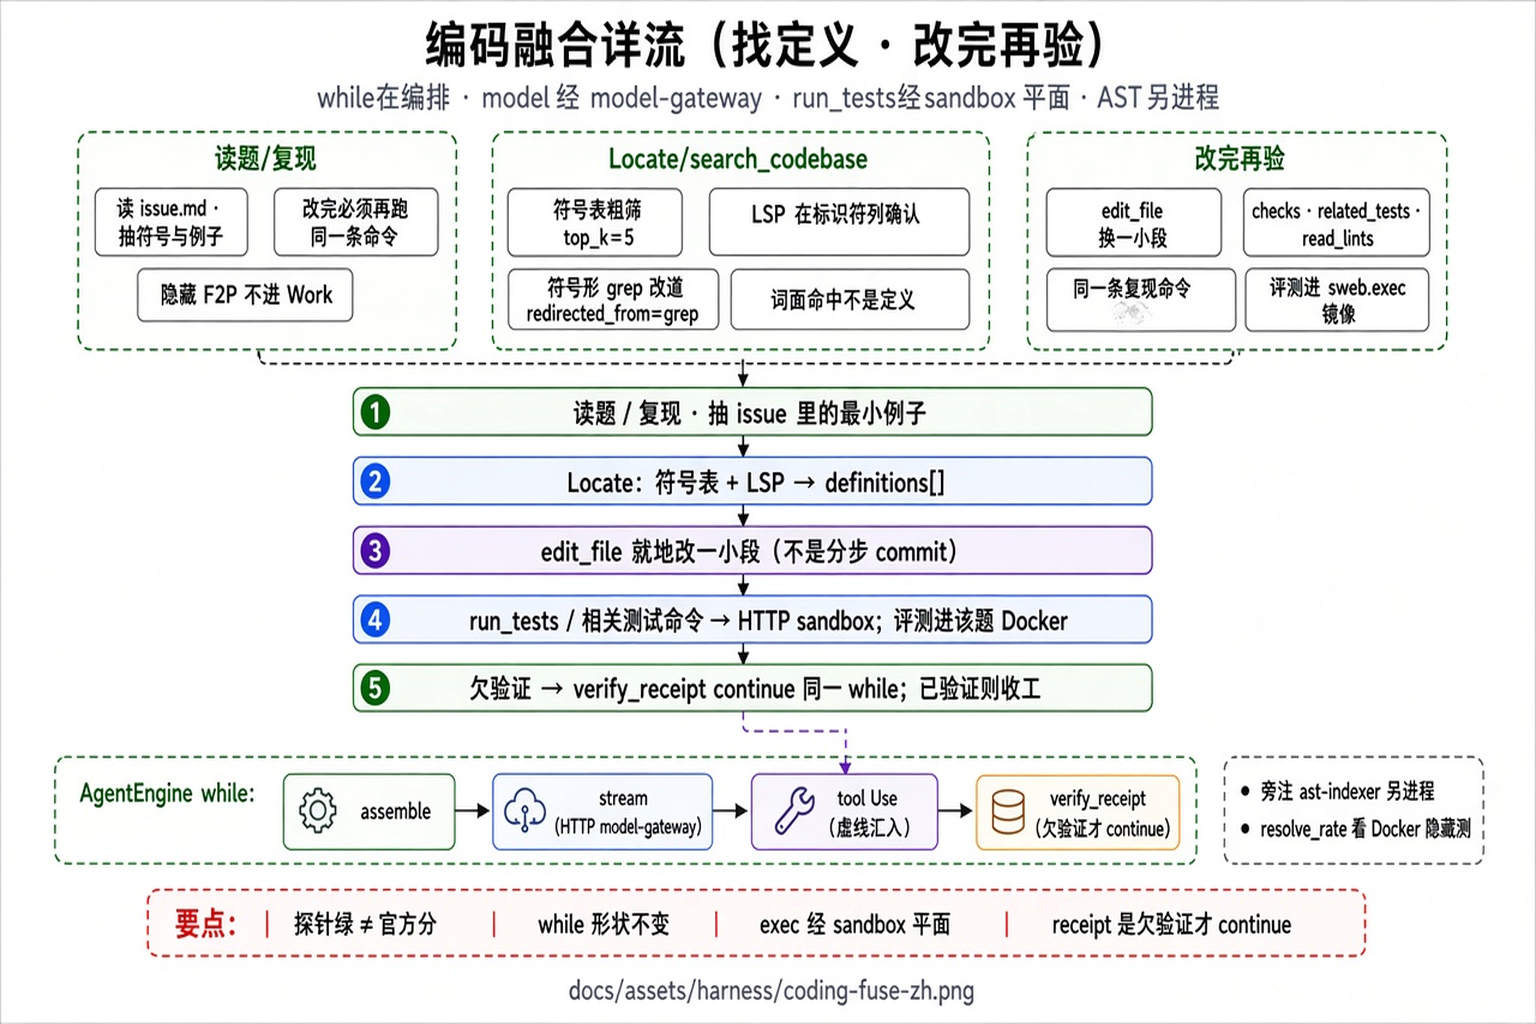
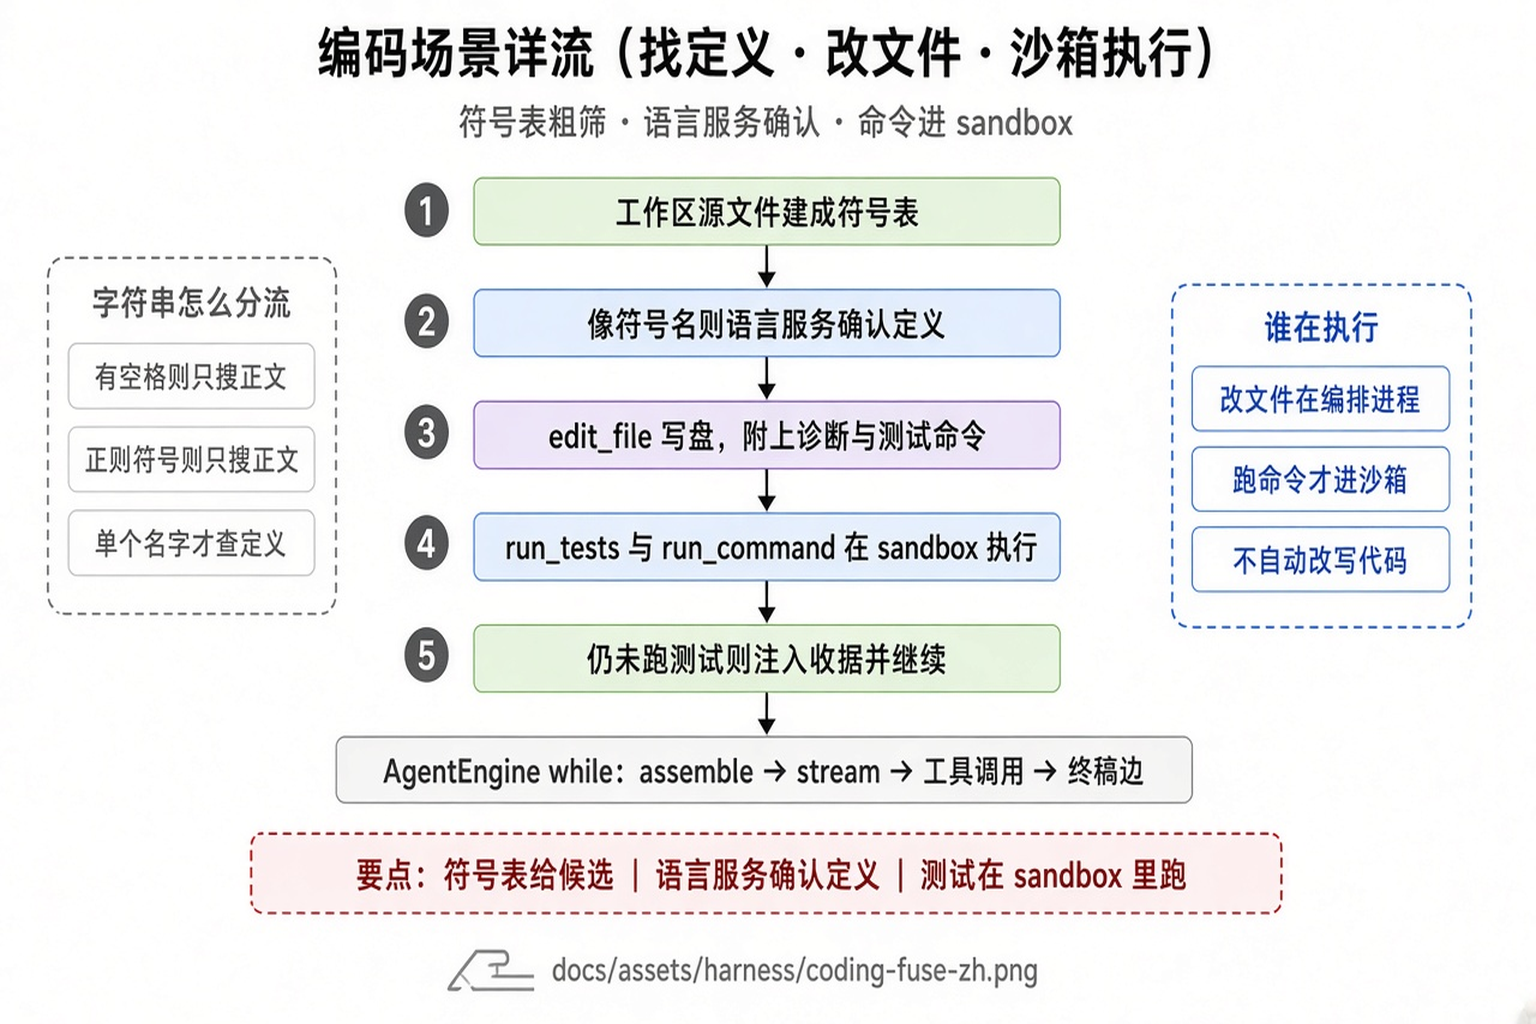
Describe the coding scenario from the workspace index and the sandbox.
Issue extraction is no longer written as the first step of every coding turn.

Changed region(s): [[0.0312, 0.0, 0.9688, 1.0], [0.9688, 0.9688, 1.0, 1.0], [0.75, 0.5938, 0.7812, 0.625]]

diff --git a/docs/tour/pages/coding-fuse.html b/docs/tour/pages/coding-fuse.html
@@ -1,56 +1,82 @@
 <section class="page" data-id="coding-fuse" data-group="Coding" data-title="找定义 · 改完再验">
+        <style>
+          [data-id="coding-fuse"] table { table-layout: fixed; }
+          [data-id="coding-fuse"] th:first-child,
+          [data-id="coding-fuse"] td:first-child { width: 28%; }
+          [data-id="coding-fuse"] th,
+          [data-id="coding-fuse"] td { overflow-wrap: anywhere; }
+        </style>
         <div class="card">
-          <h2>编码 Turn：从读题到交卷</h2>
-          <p class="lede">模型已会调用 <code>search_codebase</code>、<code>edit_file</code>、<code>run_tests</code>。平台不另发明导航工具，而是在返回值中写入模型无法忽视的事实。仍在同一 AgentEngine while（编排容器）；live 模型经 model-gateway，shell/tests 经 sandbox 平面 HTTP。官方是否判通过看 Docker 内隐藏测（<code>resolve_rate</code>），不是看这些探针是否为绿。</p>
+          <h2>编码场景</h2>
+          <p class="lede">编码场景使用 <code>agent</code> Profile，<code>max_steps</code> 为 150。用户消息给出本轮任务，源文件位于该 Work 的工作区。定义与引用由符号表和语言服务提供，测试与 shell 在 sandbox 中执行。</p>
           <ul class="seq-legend">
-            <li><span class="pt">◆ 要点</span> 官方通过与否看 Docker 内的隐藏测试。定义以符号表加 LSP 的确认结果为准。</li>
+            <li><span class="pt">◆ 要点</span> 写盘与执行分开。<code>edit_file</code> 不运行被修改的代码，建议的测试命令留待后续调用执行。</li>
           </ul>
+          <table>
+            <thead><tr><th>部分</th><th>职责</th></tr></thead>
+            <tbody>
+              <tr><td>用户消息</td><td>本轮任务。Controller 将其写入 <code>turn_user_text</code>。定义查找不读取该字段。</td></tr>
+              <tr><td>符号表</td><td>扫描工作区源文件，为函数名、类名建立索引，供定义查找取出候选。</td></tr>
+              <tr><td>语言服务</td><td>在源文件的行、列上确认定义，查询引用，并参与诊断。</td></tr>
+              <tr><td><code>edit_file</code></td><td>在编排进程中修改工作区里的已有文件。不执行这段代码。</td></tr>
+              <tr><td><code>run_tests</code> / <code>run_command</code></td><td>在 sandbox 中执行。sandbox 不可用时拒绝。</td></tr>
+            </tbody>
+          </table>
 
-          <h3>主链（仍是 Engine while，虚线汇入 tool_use）</h3>
-          <pre class="seq">1  读题  extract_issue_repro_hints(problem.md / PROBLEM.md / issue.md)
-     抽出符号名、报错串、代码块、REPL、raises
-     上限：命令 4 · 标记 8 · token 6 · 资产 2 · 信号 6 · fence 400 字
-     禁止先 list_dir(".") 枚举仓库根（写在 scenarios/agent/system.md，由返回值落实）
-     隐藏 F2P / gold patch 不进 Work
-     ◆ 要点  抽取器只能看见 issue 写过的例子。把 F2P 名字塞进 prompt，测的是泄漏。
+          <h3>符号名判定</h3>
+          <p><code>is_symbol_query</code> 只检查这一次传入的字符串。空串与超长在前，空白次之，正则元字符再次，最后才接受标识符。</p>
+          <table>
+            <thead><tr><th>字符串</th><th>后续路径</th></tr></thead>
+            <tbody>
+              <tr><td>空，或长度大于 128</td><td>文本搜索</td></tr>
+              <tr><td>含空白，如 <code>TypeError: login failed</code></td><td>文本搜索。报错原文属于此类。</td></tr>
+              <tr><td>含 <code>\ ^ $ * + ? { } [ ] | ( )</code>，如 <code>foo.*bar</code></td><td>文本搜索。这些字符按正则处理，不用于查定义。</td></tr>
+              <tr><td>整段为标识符或点分路径，如 <code>login</code>、<code>Card</code>、<code>pkg.Class.method</code></td><td>定义查找：符号表取候选，语言服务确认。</td></tr>
+            </tbody>
+          </table>
+          <p>文本搜索将正则字符转义为普通字符后，在文件正文中做子串匹配，位置写入 <code>hits</code>，<code>definitions</code> 为空。<code>locate_incomplete</code> 为假，表示本次未尝试查找定义。定义查找若未得到语言服务确认的位置，<code>definitions</code> 同样为空，<code>locate_incomplete</code> 为真。</p>
 
-2  复现  用 issue 内最小例子；改完必须再跑同一条命令
-     仓库 pytest 全绿只武装 issue_repro_armed
-     覆盖判定：issue_repro_edits_since == 0（最新一次成功 edit/write 之后）
-     失败签名仍在 stdout → 不算清；写再读须同一套 format/kwargs；casefold 主张须再跑折叠变体
+          <h3>符号表</h3>
+          <p>索引记录函数、类所在的文件。冷启动写入 <code>work_ast_index_jobs</code>，由 ast-indexer 另进程消费，不阻塞本轮。文件变更后的刷新去抖为 0.5 秒。一次查询至多返回 5 个同名候选。索引中尚无该名字时，按名称末段匹配文件名，例如 <code>Card</code> 对应 <code>Card.py</code>，上限 8 个文件、200 个目录，不等待整库索引完成。</p>
+          <p>编码 Profile 的 <code>structural_prewarm</code> 为真时，Controller 在后台预热语言服务，StartTurn 不等待预热结束。对符号名调用 <code>grep</code> 时，处理函数改走定义查找，工具名仍为 <code>grep</code>。</p>
 
-3  找定义  search_codebase（Locate）
-     符号表粗筛 top_k=5 → LSP 在标识符列确认 → 只有确认过的进 definitions[]
-     grep 符号形 pattern → handler 整条改道（redirected_from=grep），工具名不变
-     词面 hits 不得冒充定义；模块名/形参查空 → locate_incomplete，不是索引故障
-     产品对话不等 AST ready；索引默认入队 work_ast_index_jobs（inline 仅测试）
-     ◆ 要点  符号表无向量。写作打开 Locate，会把散文专名当代码符号。
+          <h3>语言服务</h3>
+          <p>符号表给出候选后，语言服务按该文件的路径、行、列确认是否为定义。确认结果写入 <code>definitions</code>，并停在第一个确认成功的候选。导航超时默认 15 秒。语言服务不可用、超时、缺少提供者或语言不受支持时，本次定位失败；符号表候选可留在 <code>candidates</code>，不进入 <code>definitions</code>。</p>
+          <p>索引没有结果或调用失败时，改为直接调用 <code>goto_definition</code>。没有结果包括：当前没有 Work、索引未启用、索引状态为 <code>ERROR</code>、按文件名也未命中。直接调用仍无位置时，退回文本搜索，<code>locate_incomplete</code> 为真。<code>self</code>、<code>cls</code>、<code>args</code>、<code>kwargs</code>、<code>msg</code>、<code>exc</code>、<code>err</code> 以及全小写点分模块路径，原因记为 <code>non_definition_query</code>，其余记为 <code>no_workspace_symbol_match</code>。</p>
 
-4  就地改  edit_file 替换一小段（非唯一命中回显最多 5 个 span）
-     32k 截断时附大纲
-     模型拿完整 result；Ops 侧 tool.completed 只落瘦 meta
-       impact / checks（单文件增量，最多 20 条，超时 30s）
-       related_tests 最多 5 条 + python -m pytest {path} -x -q
-     平台不代跑相关测试（启发式 250ms / import 反向 400ms）
-     ◆ 要点  代跑会把探针绿和官方 resolve_rate 混在一起。
+          <h3>写盘</h3>
+          <p><code>old_text</code> 在目标文件中须恰好出现一次，<code>new_text</code> 只替换该处。出现 0 次时不写盘，并返回至多 5 条邻近候选。出现多次时不写盘，并返回出现位置，至多 20 条。新文件使用 <code>write_file</code>。写盘前比较新旧文本的语法，新引入的语法错误拒绝写入。快照写成时，此次写入按可回退直接放行；快照未写成时等待批准。<code>edit_file</code> 不读取定位结果，<code>definitions</code> 为空不构成拒绝写盘的条件。</p>
+          <p>写盘成功后，同一次结果附带下列三项。平台不据此再改一稿，也不执行其中的测试命令。</p>
+          <table>
+            <thead><tr><th>附带内容</th><th>来源与限度</th></tr></thead>
+            <tbody>
+              <tr><td>引用</td><td>从 <code>old_text</code> 与 <code>new_text</code> 中抽出一个符号，由语言服务列出引用位置。路径不是代码，或片段中没有符号，则跳过。</td></tr>
+              <tr><td>新增诊断</td><td>比较写盘前后的诊断，只保留新增项。默认至多 20 条，超时 30 秒。</td></tr>
+              <tr><td>测试命令</td><td>至多 5 条，形式为 <code>python -m pytest {path} -x -q</code>。按文件名查找的预算为 250 毫秒，按 import 反向查找至多 250 个文件、400 毫秒。</td></tr>
+            </tbody>
+          </table>
+          <p>跨文件诊断由模型另行调用 <code>read_lints</code>。该工具合并 ruff 与语言服务的诊断后返回。</p>
 
-5  改完再验  checks · related_tests 命令 · 邻文件 read_lints · 同一条复现
-     失败摘要从<strong>未截断全文</strong>抽 first_failures（入 state 再截 400 字）
-     评测路径剥 | tail，送进该题 sweb.eval；宿主树上的绿不算
-     pip/uv install 在 SWE 镜像内拒绝
+          <h3>sandbox 中的执行</h3>
+          <p>读文件与改文件由编排进程直接访问工作区。sandbox 可用，指已配置远程 sandbox 平面，或本进程的 bwrap 可用。编排进程未配置 <code>SANDBOX_PLANE_URL</code>，或隔离探针失败时，<code>run_tests</code> 与 <code>run_command</code> 被拒绝，原因为 <code>sandbox unavailable</code>。</p>
+          <table>
+            <thead><tr><th>调用</th><th>执行条件</th></tr></thead>
+            <tbody>
+              <tr><td><code>run_tests</code></td><td>仅接受 <code>pytest</code>、<code>python -m pytest</code>、<code>npm</code> / <code>pnpm</code> / <code>yarn test</code>、<code>npx vitest</code>、<code>npx jest</code>。其它字符串拒绝，不进入 shell。sandbox 可用时允许执行，可写范围为当前工作区根。</td></tr>
+              <tr><td><code>run_command</code></td><td>用于构建、安装及其它命令。sandbox 可用且命令在允许列表中时直接执行；不在允许列表中、且不属于评测命令集时，先经批准。单文件的 <code>cat</code>、<code>head</code>、<code>tail</code>、<code>sed -n</code>，且命令行不含管道时，改为 <code>read_file</code>，不进入 shell。</td></tr>
+            </tbody>
+          </table>
 
-6  终局边  欠验证 → verify_receipt continue 同一 while
-     剩余步数 &lt; 10 则省略；每类每 Turn 至多一次
-     不是新图节点；菜单不可见
-     ◆ 要点  探针全绿仍可能 harness unresolved（14365：issue 无小写 NO，隐藏 roundtrip 仍红）。</pre>
-          <p>超时与文件帽是配置，不是能力开关。Capability 在 Profile.tool_names。structural_prewarm 不挡 TTFB。</p>
-          <p class="figure-lead">下图上半三条虚线分组是读题、Locate（符号表加 LSP）、改完再验；下半仍是 Engine while，虚线汇入 <code>tool_use</code>。欠验证才注入 <code>verify_receipt</code> 并 continue。主链没有「制定计划」或「分步 commit」。</p>
-          <div class="src"><code>structural/workspace_index/locate.py</code> · <code>structural/related_tests.py</code> · <code>structural/issue_repro.py</code> · <code>engine/verify_receipt.py</code></div>
+          <h3>编辑之后尚未运行测试</h3>
+          <p>代码文件编辑成功后，<code>verify_pending</code> 置为真。非代码路径，或引用与诊断均被跳过时，不置该标记。随后一次被接受的 <code>run_tests</code>，或被判定为测试的 <code>run_command</code>，将该标记清掉。被拒绝的测试命令不清。</p>
+          <p>模型本次只返回文本、未再调用工具，且剩余步数不少于 10 时，引擎追加一条用户消息：写明本轮改过的代码文件数、最后一次编辑后尚未运行测试，并附上已收集的测试命令与上一次失败摘要。摘要截断至 400 字。追加之后 <code>continue</code>，进入同一次 while 的下一步。<code>cancelled</code> 或 <code>budget_exceeded</code> 时不追加。</p>
+          <p class="figure-lead">下图依次为：符号表取候选，语言服务确认定义，<code>edit_file</code> 写盘并附带诊断与测试命令，测试和 shell 进入 sandbox。编辑后仍未运行测试时，注入收据并继续同一条循环。</p>
+          <div class="src"><code>tools/core/codebase_search.py</code> · <code>structural/workspace_index/locate.py</code> · <code>tools/core/edit_tools.py</code> · <code>tools/core/lsp_tools.py</code> · <code>policy/plane.py</code> · <code>engine/verify_receipt.py</code></div>
         </div>
         <figure class="figure">
           <div class="diagram-body diagram-svg">
-            <img src="../assets/harness/coding-fuse-zh.png" alt="编码融合：找定义·改完再验" />
+            <img src="../assets/harness/coding-fuse-zh.png" alt="编码场景：符号表与语言服务找定义，edit_file 写盘，测试在 sandbox 执行" />
           </div>
-          <figcaption>编码融合详流 · 点击放大</figcaption>
+          <figcaption>编码场景详流 · 点击放大</figcaption>
         </figure>
       </section>

diff --git a/docs/tour/pages/issue-repro.html b/docs/tour/pages/issue-repro.html
@@ -1,7 +1,7 @@
 <section class="page" data-id="issue-repro" data-group="Coding" data-title="issue 例子覆盖">
         <div class="card">
           <h2>issue 例子覆盖义务</h2>
-          <p class="lede">平台从工作区 <code>problem.md</code> / <code>PROBLEM.md</code> / <code>issue.md</code> 抽取<strong>正文里已经写过的</strong>例子。只复现 issue 写过的内容，<strong>不得把官方隐藏测试泄漏给模型</strong>。仓库测试通过仍不够：这些例子必须在<strong>最新一次代码编辑之后</strong>被成功命令覆盖（<code>issue_repro_edits_since == 0</code>）。</p>
+          <p class="lede">这条义务挂在成功的代码编辑之后。<code>edit_file</code> 成功后，<code>_ensure_issue_repro_hints</code> 才读工作区根的 <code>problem.md</code> / <code>PROBLEM.md</code> / <code>issue.md</code>，每 Turn 一次。三份都不在，文本为空，收据不武装。官方评测由 <code>repo_materialize</code> 把 <code>problem_statement</code> 写成 <code>problem.md</code>。抽取范围限于正文里已经写过的例子，隐藏测试不进 Work。仓库测试通过之后，这些例子仍须在最新一次代码编辑之后被成功命令覆盖（<code>issue_repro_edits_since == 0</code>）。</p>
           <ul class="seq-legend">
             <li><span class="pt">◆ 要点</span> 只抽取 issue 正文中已经写明的例子。覆盖判定绑定最近一次编辑。</li>
           </ul>
@@ -19,7 +19,7 @@
   成功命令必须吃掉 required_tokens / assets；失败签名若仍在 stdout/stderr 里，不算清
   绿测试（is_green_test_result）只武装「仓库测已过」，同时把 issue_repro_armed 打开
   之后每一次成功 edit/write 把 edits_since += 1；必须再跑覆盖命令才能回到 0
-<span class="pt">◆ 要点  义务绑「最新一次编辑之后」。只记「曾经跑过例子」，改完再交卷会漏官方隐藏测。</span>
+<span class="pt">◆ 要点  义务绑最新一次编辑之后。曾经跑过例子不算数；最新一次 edit/write 之后必须再跑覆盖命令。</span>
 <span class="pt">◆ 要点  抽取器看不到隐藏测。casefold 门只能逼 issue 写过的大小写主张；issue 没写的 roundtrip 变体逼不出。</span></pre>
           <p>第5轮对照（评测事实，用来校准门的分辨率，不是改抽取上限的理由）：14182 转绿，补丁同时改了写路径（<code>header_rows</code>）与读侧（<code>data.start_line</code>），与写再读义务同向，仍最慢（约 30 分钟，镜像跑测与复现占主导）。14365 回落，补丁仅加 <code>re.IGNORECASE</code>；issue 样例无小写 <code>NO</code>，大小写折叠门未能逼出官方隐藏的 roundtrip 测（<code>test_roundtrip[True]</code>）。</p>
           <div class="src"><code>structural/issue_repro.py</code> · <code>engine/state.py</code> · RESULTS 第5轮</div>

diff --git a/docs/tour/pages/engine-loop.html b/docs/tour/pages/engine-loop.html
@@ -108,8 +108,10 @@ handler 改道（工具名不变）
 
 编码两类（剩余步数须 ≥ verify_receipt_reserve_steps，默认 10）
   1  成功 edit/write 之后未跑 testish 命令          verify_pending
-  2  仓库测试已绿，但 problem.md 例子未在最新编辑后被成功命令覆盖
+  2  工作区根有 problem.md / PROBLEM.md / issue.md，且已抽出义务
+     仓库测试已绿，但这些例子未在最新编辑后被成功命令覆盖
      issue_repro_armed 且未 satisfied
+     文件不在则这条不武装。日常编码只走上面的经典收据
   每类每 Turn 至多一次（verify_receipt_sent / issue_repro_receipt_sent）
   cancel / budget_exceeded 不注入
 
